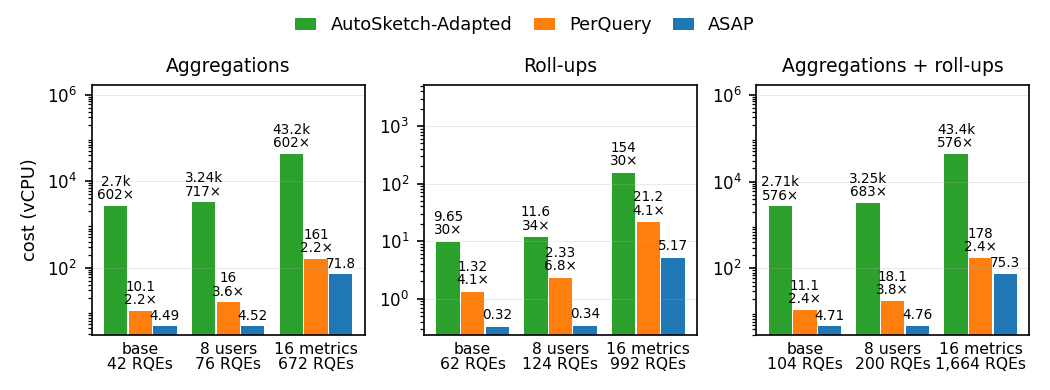
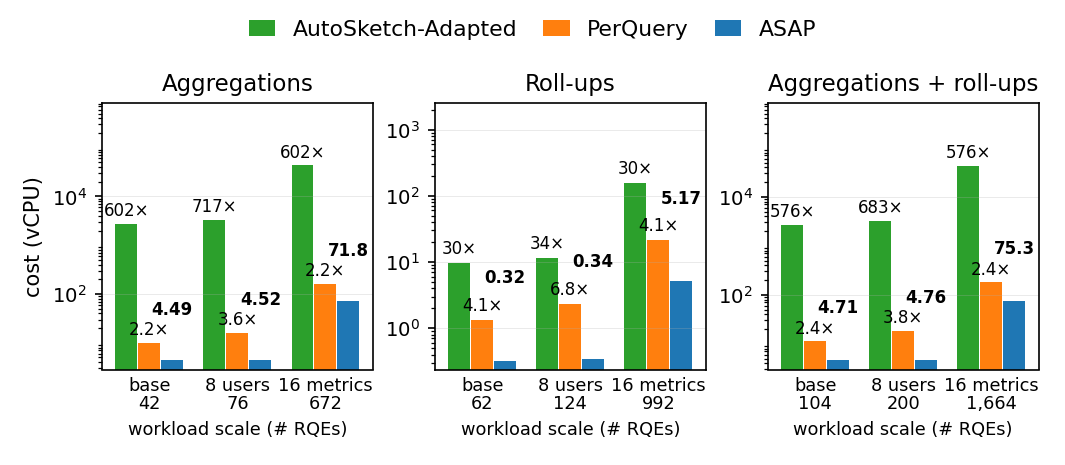
plot_sec63_paper: larger fonts in the figure* cost bars; one label per bar (ASAP's cost, each baseline's multiple), no overlaps

diff --git a/scripts/plot_sec63_paper.py b/scripts/plot_sec63_paper.py
@@ -72,11 +72,16 @@ def cost_bars(results, out, layout):
     (7 in). `column`: stacked, at one column's width (3.4 in). Both are drawn
     at their printed size, so fonts are what the paper shows."""
     wide = layout == "wide"
-    with plt.rc_context({"font.size": 8, "axes.titlesize": 9, "axes.labelsize": 8.5,
-                         "xtick.labelsize": 8, "ytick.labelsize": 8, "legend.fontsize": 8.5}):
-        fig, axes = (plt.subplots(1, len(WORKLOADS), figsize=(7, 2.6)) if wide else
+    sizes = ({"font.size": 9.5, "axes.titlesize": 11, "axes.labelsize": 10,
+              "xtick.labelsize": 9.5, "ytick.labelsize": 9.5, "legend.fontsize": 10.5}
+             if wide else
+             {"font.size": 8, "axes.titlesize": 9, "axes.labelsize": 8.5,
+              "xtick.labelsize": 8, "ytick.labelsize": 8, "legend.fontsize": 8.5})
+    with plt.rc_context(sizes):
+        fig, axes = (plt.subplots(1, len(WORKLOADS), figsize=(7.1, 3.1)) if wide else
                      plt.subplots(len(WORKLOADS), 1, figsize=(3.4, 5.8)))
-        width = 0.28
+        width = 0.3 if wide else 0.28
+        gap = 1.15 if wide else 1.0  # between variant groups
         for ax, (templates, title) in zip(axes, WORKLOADS):
             labels = []
             for i, (variant, name) in enumerate(VARIANTS):
@@ -84,32 +89,47 @@ def cost_bars(results, out, layout):
                 limit = data["frontier"]["autosketch_latency_ms"]
                 cost = {m: cheapest(data, m, max_latency_ms=limit) for m, _, _ in METHODS}
                 for k, (method, label, color) in enumerate(METHODS):
-                    x = i + (k - 1) * width
+                    x = i * gap + (k - 1) * width
                     ax.bar(x, cost[method], width * 0.95, color=color,
                            label=label if i == 0 else None)
-                    text = short(cost[method])
-                    if method != "asap":
-                        ratio = cost[method] / cost["asap"]
-                        text += f"\n{ratio:.0f}×" if ratio >= 10 else f"\n{ratio:.1f}×"
-                    ax.text(x, cost[method] * 1.2, text, ha="center", va="bottom",
-                            fontsize=6.5, linespacing=0.95)
-                labels.append(f"{name}\n{data['rqes']:,} RQEs")
+                    ratio = cost[method] / cost["asap"]
+                    multiple = f"{ratio:.0f}×" if ratio >= 10 else f"{ratio:.1f}×"
+                    if wide:
+                        # One short label per bar: ASAP's cost, each
+                        # baseline's multiple of it (its cost is on the axis).
+                        text = short(cost[method]) if method == "asap" else multiple
+                    else:
+                        text = short(cost[method]) + ("" if method == "asap" else "\n" + multiple)
+                    # Wide: when ASAP's bar is about as tall as PerQuery's, its
+                    # label rises above PerQuery's, so neighbours never share a
+                    # row (one label is about a factor 2.5 of height here).
+                    y = cost[method] * 1.2
+                    if wide and method == "asap":
+                        y = max(y, cost["perquery"] * 1.2 * 2.6)
+                    ax.text(x, y, text, ha="center", va="bottom",
+                            fontsize=8 if wide else 6.5, linespacing=0.95,
+                            weight="bold" if wide and method == "asap" else "normal")
+                labels.append(f"{name}\n{data['rqes']:,}" if wide else
+                              f"{name}\n{data['rqes']:,} RQEs")
             ax.set_yscale("log")
-            ax.set_xticks(range(len(VARIANTS)))
-            ax.set_xticklabels(labels, fontsize=7.5 if wide else 8, linespacing=1.0)
+            ax.set_xticks([i * gap for i in range(len(VARIANTS))])
+            ax.set_xticklabels(labels, fontsize=8.5 if wide else 8, linespacing=1.0)
+            ax.set_xlim(-0.62, (len(VARIANTS) - 1) * gap + 0.62)
             ax.set_title(title)
-            ax.set_ylim(top=ax.get_ylim()[1] * 25)
+            ax.set_ylim(top=ax.get_ylim()[1] * (12 if wide else 25))
             ax.yaxis.set_major_locator(matplotlib.ticker.LogLocator(numticks=4))
             ax.grid(axis="y", alpha=0.3, lw=0.4)
             ax.tick_params(axis="x", length=0)
             if wide or ax is axes[len(WORKLOADS) // 2]:
                 ax.set_ylabel("cost (vCPU)")
+            if wide:
+                ax.set_xlabel("workload scale (# RQEs)", fontsize=8.5)
             if wide and ax is not axes[0]:
                 ax.set_ylabel("")
         handles, names = axes[0].get_legend_handles_labels()
         fig.legend(handles, names, loc="upper center", ncol=len(METHODS), frameon=False,
                    handlelength=1.2, columnspacing=1.2)
-        fig.tight_layout(rect=(0, 0, 1, 0.9 if wide else 0.95), h_pad=1.4, w_pad=0.8)
+        fig.tight_layout(rect=(0, 0, 1, 0.89 if wide else 0.95), h_pad=1.4, w_pad=0.3)
         save(fig, out, "sec63_cost_bars" + ("" if wide else "_column"))
 
 
